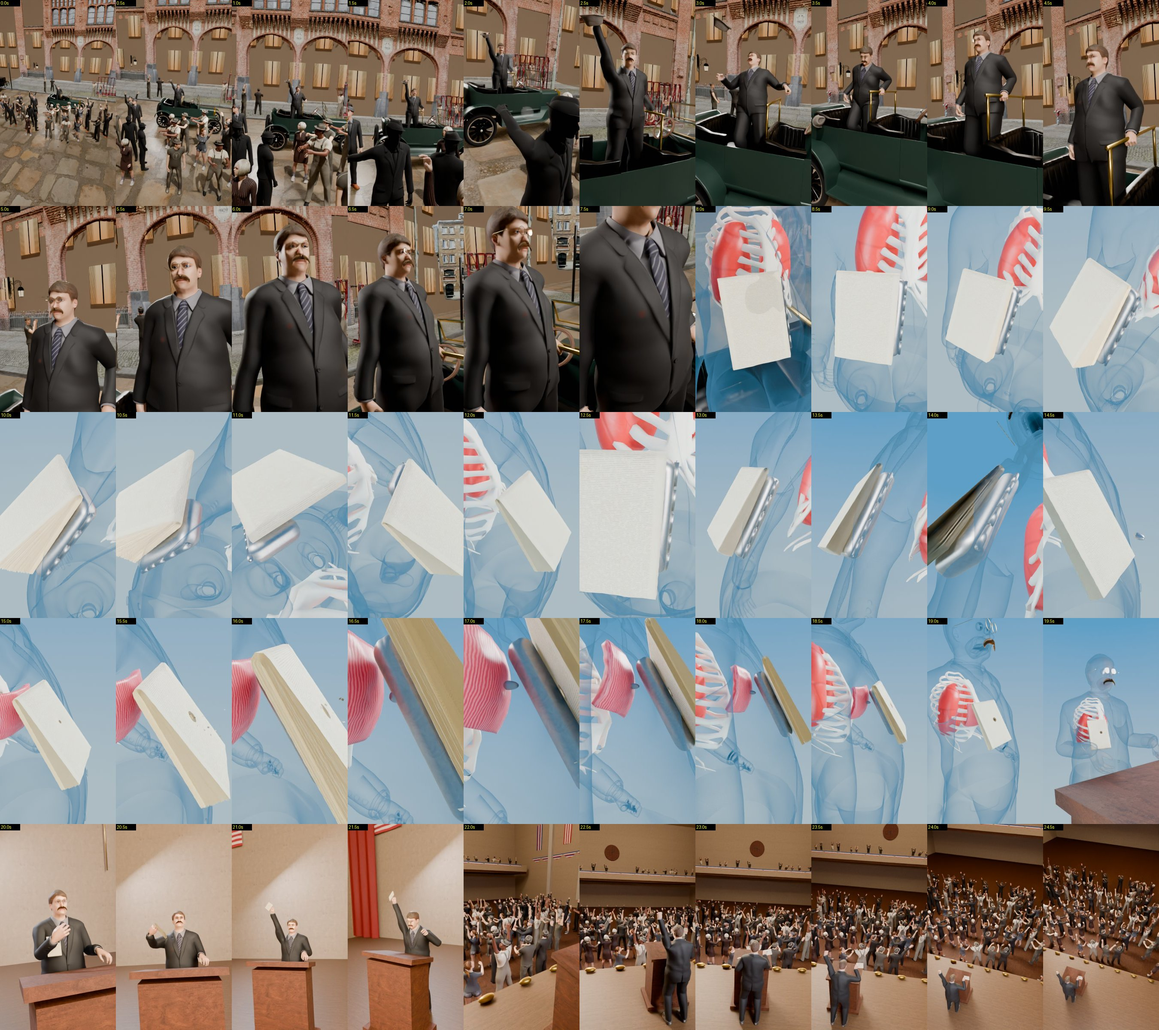
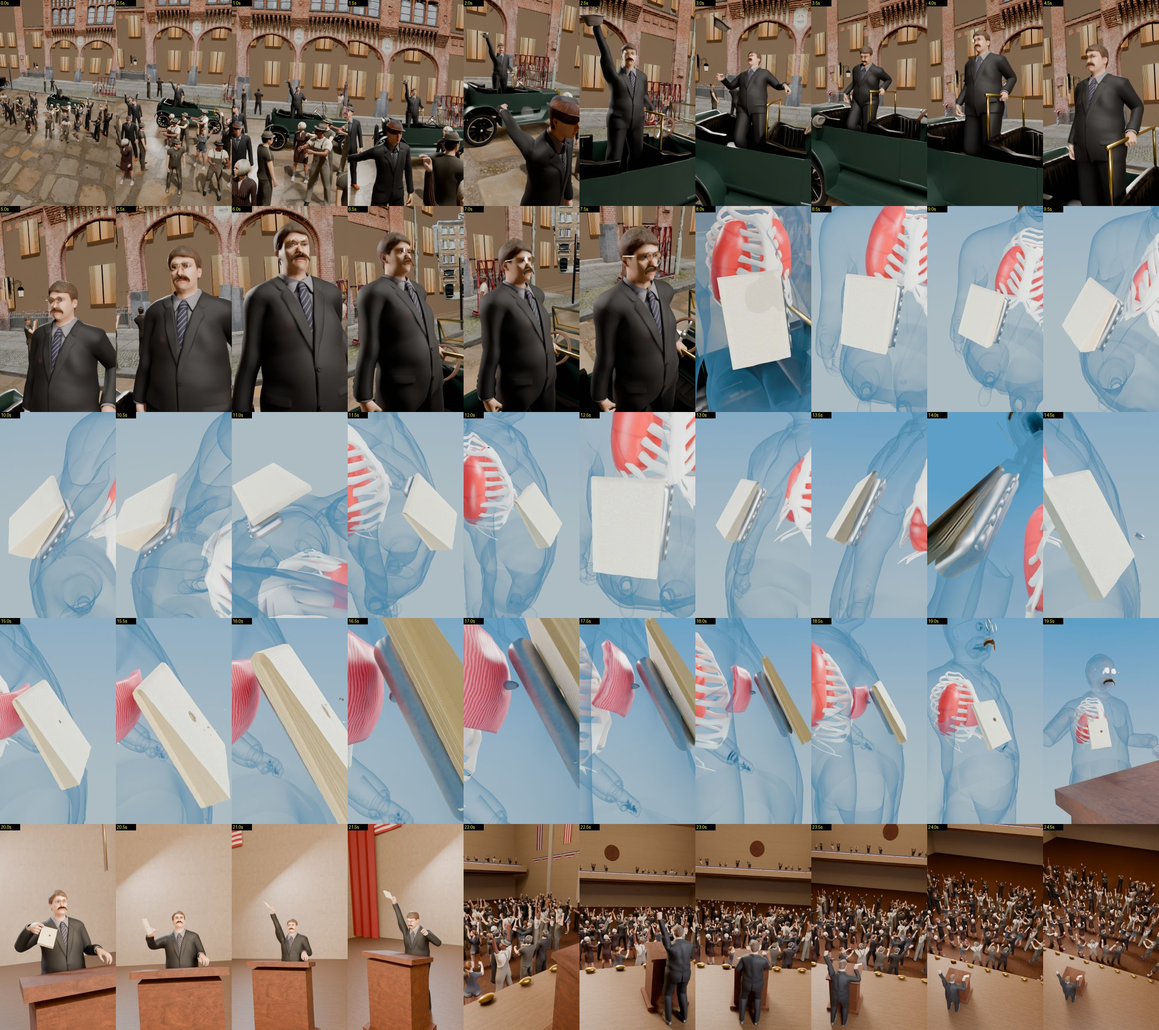
Connect24 RooseveltSpeech: v007 revision WIP (thumb-index pinch pull, lit shooter/policeman, framing fixes)
Claude-Session: https://claude.ai/code/session_01XfwPSmDU9rog858gx2mfei

diff --git a/blender/RooseveltSpeech_v001/scripts/03_animate.py b/blender/RooseveltSpeech_v001/scripts/03_animate.py
@@ -88,7 +88,6 @@ RAIL = Vector((0.26, -0.10, 1.025))            # brass grab rail on the front se
 POCKET_REACH = Vector((-0.06, -0.30, 1.24))
 hR_keys = [(1, wave_R(1)), (F_IMPACT, wave_R(F_IMPACT)), (F_IMPACT + 6, Vector((-0.42, -0.18, 1.5))), (195, Vector((-0.40, -0.12, 1.0))),
            (240, Vector((-0.33, -0.10, 0.92))), (300, Vector((-0.30, -0.08, 0.90))), (1150, Vector((-0.30, -0.08, 0.90))),
-           (1185, Vector((-0.22, -0.26, 1.14))), (1205, POCKET_REACH), (1216, POCKET_REACH + Vector((0.0, 0.0, 0.0))),
            (1238, Vector((-0.30, -0.42, 1.45))), (1262, Vector((-0.30, -0.30, 1.98))), (1285, Vector((-0.30, -0.30, 2.0))),
            (1310, Vector((-0.26, -0.45, 1.35))), (1360, Vector((-0.22, -0.44, 1.22))), (1420, Vector((-0.30, -0.42, 1.40))), (1500, Vector((-0.24, -0.44, 1.25)))]
 hL_keys = [(1, Vector((0.30, -0.12, 0.95))), (60, Vector((0.36, -0.30, 1.2))), (100, Vector((0.32, -0.20, 1.05))), (F_IMPACT, Vector((0.31, -0.14, 1.0))),
@@ -332,7 +331,7 @@ for ob in [o for o in H.children if o.type == "MESH"]:
 MS = bpy.data.objects["Manuscript"]; GC = bpy.data.objects["GlassesCase"]; BL = bpy.data.objects["Bullet"]
 SHEETS = sorted([o for o in MS.children if o.name.startswith("Sheet")], key=lambda o: o.name)
 # stack normal (local +z) points out of the chest; sheet 49 outermost
-MS.matrix_world = PW @ Matrix.Translation(Vector((-0.002, 0.010, -0.03))) @ Matrix.Rotation(R_(90), 4, "X")
+MS.matrix_world = PW @ Matrix.Translation(Vector((-0.002, -0.014, -0.035))) @ Matrix.Rotation(R_(90), 4, "X")
 c_sp = child_of(MS, H, "spine01", 400)
 GC.matrix_world = PW @ Matrix.Translation(Vector((0.035, 0.031, -0.03))) @ Matrix.Rotation(R_(90), 4, "Y") @ Matrix.Rotation(R_(90), 4, "X")
 child_of(GC, H, "spine01", 400)
@@ -345,42 +344,64 @@ for o in [MS] + list(MS.children): vis(o, ((1, True), (B[3] + 15, False)))
 # manuscript hand-off: pocket (spine01) -> right hand from the grasp at 1216
 c_hand = MS.constraints.new("CHILD_OF"); c_hand.target = H; c_hand.subtarget = "wrist.R"
 sc.frame_set(1216); c_hand.inverse_matrix = (H.matrix_world @ R.PB["wrist.R"].matrix).inverted() @ (H.matrix_world @ R.PB["spine01"].matrix) @ c_sp.inverse_matrix
-for f_, a_, b_ in ((1, 1.0, 0.0), (1215, 1.0, 0.0), (1216, 0.0, 1.0)):
+for f_, a_, b_ in ((1, 1.0, 0.0),):   # hand-off keys are set in the pinch block below
     c_sp.influence = a_; c_hand.influence = b_
     c_sp.keyframe_insert("influence", frame=f_); c_hand.keyframe_insert("influence", frame=f_)
-sc.frame_set(1180); _ms0 = MS.location.copy()
-for f_, u_ in ((1, 0.0), (1205, 0.0), (1216, 1.0), (END, 1.0)):   # the hand pulls it up: rises only while gripped
-    MS.location = _ms0 + (Pocket.matrix_world.to_3x3() @ Vector((0.0, -0.006, 0.065))) * u_; MS.keyframe_insert("location", frame=f_)
-# right hand reaches the manuscript's top edge in the pocket (1199-1216), re-keyed now that the pocket is known
-for f in range(1197, 1219, 2):
+# ---- manuscript pull (director v007 note): thumb + index pinch the top corner and draw it out while the coat is still
+#      x-ray ghost (1150-1184); the pinch holds through the lift. Timeline: reach 1151-1166, pinch, pull 1168-1184,
+#      hold at the chest, hand-off to the wrist at 1196, lift to the audience (1238-1262).
+T_PINCH, T_PULL0, T_PULL1, T_HAND = 1166, 1168, 1184, 1196
+sc.frame_set(1150); _ms0 = MS.location.copy()
+for f_, u_ in ((1, 0.0), (T_PINCH, 0.0), (T_PINCH + 4, 0.6), (T_PULL1, 1.0), (END, 1.0)):   # moves only while pinched; drawn out fast, then eases
+    MS.location = _ms0 + (Pocket.matrix_world.to_3x3() @ Vector((-0.03, -0.15, 0.03))) * u_; MS.keyframe_insert("location", frame=f_)
+_cands = (Vector((-0.043, 0.074, 0.0)), Vector((0.043, 0.074, 0.0)))
+sc.frame_set(1150)
+CORNER = min(_cands, key=lambda c: ((MS.matrix_world @ c) - hR(1150)).length)
+def pinch_mid():
+    return (H.matrix_world @ R.PB["finger1-3.R"].tail + H.matrix_world @ R.PB["finger2-3.R"].tail) / 2
+def pinch_pose(f):
+    for k in range(1, 6):
+        for j in range(1, 4):
+            n = f"finger{k}-{j}.R"
+            if n not in R.PB: continue
+            a = (15, 30, 21)[j - 1] if k == 1 else ((27, 45, 31)[j - 1] if k == 2 else (18, 26, 18)[j - 1])   # thumb-index tip gap ~1 cm
+            pb = R.PB[n]; pb.rotation_quaternion = Quaternion((1, 0, 0), R_(a)); pb.keyframe_insert("rotation_quaternion", frame=f, group=n)
+for f_ in (1150, 1160) + tuple(x for x in (1170, 1182, 1192, 1204, 1216, 1290, 1300, 1365, 1372, 1395, 1405, 1500)):
+    if f_ >= 1160: pinch_pose(f_)
+D_G, N_G = Vector((0.9, 0.1, -0.45)), Vector((0, 1, 0.1))   # fingers across and down the chest, palm toward the coat
+Wt = hR(1150)
+for f in range(1151, T_HAND + 1, 2):
     sc.frame_set(f)
-    top = MS.matrix_world @ Vector((0.0, 0.08, 0.014)) + Vector((0, -0.022, 0.006))
-    u = smooth((f - 1197) / 10.0)
-    Wt = hR(1196).lerp(top + Vector((0.0, -0.025, 0.075)), u) + Vector((-0.03, -0.12, 0.03)) * math.sin(math.pi * min(1.0, u))
-    if f > 1215: Wt = Wg_hold + Vector((0.0, -0.008, 0.004))
-    HU.key_hand("R", f, Wt, Vector((0.9, 0.25, -0.35)), Vector((0, 1, 0.2)), pole=Vector((-0.55, 0.45, 1.0)))
-    if 1205 <= f <= 1215:   # land the finger pads on the manuscript's top edge (2 correction passes)
-        for _ in range(2):
-            sc.frame_set(f); top = MS.matrix_world @ Vector((0.0, 0.08, 0.014)) + Vector((0, -0.022, 0.006))
-            fp = H.matrix_world @ R.PB["finger3-2.R"].head.lerp(R.PB["finger1-3.R"].head, 0.5)
-            Wt = Wt + (top - fp)
-            HU.key_hand("R", f, Wt, Vector((0.9, 0.25, -0.35)), Vector((0, 1, 0.2)), pole=Vector((-0.55, 0.45, 1.0)))
-        Wg_hold = Wt.copy()
+    corner = MS.matrix_world @ CORNER
+    u = smooth((f - 1151) / float(T_PINCH - 1151))
+    if f < T_PINCH:   # approach from outside the chest, arcing out
+        Wt = hR(1150).lerp(corner + Vector((0.02, -0.06, 0.09)), u) + Vector((-0.04, -0.10, 0.03)) * math.sin(math.pi * u)
+        DN = clamp_wrist("R", Wt, D_G, N_G, f)
+        HU.key_hand("R", f, Wt, *DN, pole=Vector((-0.55, 0.45, 1.0)))
+    else:             # fingertips on the corner: 3 correction passes per key
+        DN = clamp_wrist("R", Wt, D_G, N_G, f)
+        HU.key_hand("R", f, Wt, *DN, pole=Vector((-0.55, 0.45, 1.0)))
+        for _ in range(3):
+            sc.frame_set(f); corner = MS.matrix_world @ CORNER
+            Wt = Wt + (corner - pinch_mid())
+            HU.key_hand("R", f, Wt, *DN, pole=Vector((-0.55, 0.45, 1.0)))
 Wg = Wt.copy()
 def _two(a_, m_, b_, u):
     return (a_.lerp(m_, u * 2) if u < 0.5 else m_.lerp(b_, u * 2 - 1)).normalized()
-for f in range(1219, 1245, 2):   # ease out of the grasp into the lift, no orientation snap
-    u = smooth((f - 1217) / 26.0)
-    W_ = hR(f) + (Wg - hR(1217)) * (1 - u) + Vector((0.0, -0.075, 0.02)) * math.sin(math.pi * u)
-    d_ = _two(Vector((0.9, 0.25, -0.35)), Vector((0.5, -0.6, 0.6)), Vector((0.1, -0.2, 1)), u)
-    n_ = _two(Vector((0, 1, 0.2)), Vector((0.3, 0.5, 0.6)), Vector((-0.2, -1, 0)), u)
+for f in range(T_HAND + 1, 1247, 2):   # ease from the chest into the lift, the paper stays pinched (child of the wrist)
+    u = smooth((f - T_HAND) / 48.0)
+    W_ = hR(f) + (Wg - hR(T_HAND)) * (1 - u) + Vector((0.0, -0.06, 0.02)) * math.sin(math.pi * u)
+    d_ = _two(DN[0], Vector((0.5, -0.6, 0.6)), Vector((0.1, -0.2, 1)), u)
+    n_ = _two(DN[1], Vector((0.3, 0.5, 0.6)), Vector((-0.2, -1, 0)), u)
     HU.key_hand("R", f, W_, d_, n_, pole=Vector((-0.55, 0.45, 1.0)))
+for f_, a_, b_ in ((1, 1.0, 0.0), (T_HAND - 1, 1.0, 0.0), (T_HAND, 0.0, 1.0)):
+    c_sp.influence = a_; c_hand.influence = b_; c_sp.keyframe_insert("influence", frame=f_); c_hand.keyframe_insert("influence", frame=f_)
+for fc_owner in (c_sp, c_hand): pass
 c_hand.influence = 0.0; c_sp.influence = 1.0
-sc.frame_set(1215)
-_fist = sum((H.matrix_world @ R.PB[f"finger{k}-2.R"].head for k in (2, 3, 4, 5)), Vector()) / 4
-_top = MS.matrix_world @ Vector((0.0, 0.065, 0.014))
-c_hand.inverse_matrix = (H.matrix_world @ R.PB["wrist.R"].matrix).inverted() @ Matrix.Translation(_fist - _top) @ (H.matrix_world @ R.PB["spine01"].matrix) @ c_sp.inverse_matrix
-print("GRIP SNAP", round((_fist - _top).length, 3))
+sc.frame_set(T_HAND - 1)
+_pm = pinch_mid(); _cw = MS.matrix_world @ CORNER
+c_hand.inverse_matrix = (H.matrix_world @ R.PB["wrist.R"].matrix).inverted() @ Matrix.Translation(_pm - _cw) @ (H.matrix_world @ R.PB["spine01"].matrix) @ c_sp.inverse_matrix
+print("GRIP SNAP", round((_pm - _cw).length, 3))
 # paper hole: charred ring + clear hole through every sheet after the bullet passes (paper material, object coords of HoleEmpty)
 hole_e = bpy.data.objects.new("HoleEmpty", None); C_STUDIO.objects.link(hole_e); hole_e.parent = MS
 HP_LOCAL = Vector((0.012, 0.01, 0.0))

diff --git a/blender/RooseveltSpeech_v001/scripts/03b_crowd_camera.py b/blender/RooseveltSpeech_v001/scripts/03b_crowd_camera.py
@@ -103,7 +103,7 @@ for i, p in enumerate(SPOTS):
     for o in [a] + list(a.children):
         o.hide_render = False; o.keyframe_insert("hide_render", frame=1); o.hide_render = True; o.keyframe_insert("hide_render", frame=F_OUT)
 # the shooter: a black silhouette, arm raised toward the car; no weapon detail (a dark blob in the hand)
-sh = instance("CrowdB", "Shooter", SHOOTER_POS, math.atan2(-(0 - SHOOTER_POS.x), -(0 - SHOOTER_POS.y)) + R_(180), CR, black=True)
+sh = instance("CrowdB", "Shooter", SHOOTER_POS, math.atan2(-(0 - SHOOTER_POS.x), -(0 - SHOOTER_POS.y)) + R_(180), CR, black=False)   # dark overcoat and hat, lit like everyone else (no flat black blob)
 fks = FK(sh)
 aim = (HIT - (SHOOTER_POS + Vector((-0.2, 0, 1.4)))).normalized()
 aim_l = sh.matrix_world.to_3x3().inverted() @ aim
@@ -126,7 +126,7 @@ for o in [sh, blob] + list(sh.children):
     o.hide_render = False; o.keyframe_insert("hide_render", frame=1); o.hide_render = True; o.keyframe_insert("hide_render", frame=F_OUT)
 # policeman silhouette restraining the shooter (background), arms on the shooter from just after the shot
 cop_pos = SHOOTER_POS + Vector((0.6, -0.35, 0))
-cop = instance("CrowdD", "Policeman", cop_pos, math.atan2(-(SHOOTER_POS.x - cop_pos.x), -(SHOOTER_POS.y - cop_pos.y)), CR, black=True)
+cop = instance("CrowdD", "Policeman", cop_pos, math.atan2(-(SHOOTER_POS.x - cop_pos.x), -(SHOOTER_POS.y - cop_pos.y)), CR, black=False)
 fkc = FK(cop); to_sh = cop.matrix_world.to_3x3().inverted() @ (SHOOTER_POS + Vector((0, 0, 1.35)) - (cop_pos + Vector((0, 0, 1.35)))).normalized()
 for f in range(1, F_OUT, 4):
     t = wt(f); u = smooth((t - F_IMPACT - 8) / 18.0)
@@ -208,13 +208,13 @@ K = [  # frame, position, target, lens
  (300,  Vector((0.55, -1.15, 1.6)),  Vector((0.0, -0.12, 1.55)), 35),   # face, straightening
  (B[2], Vector((0.15, -1.05, 1.45)), Vector((-0.05, -0.15, 1.38)), 35),
  (395,  Vector((-0.85, -0.85, 1.4)), P((0, 0, 0.02)), 35),              # orbit to the coat breast
- (B[3], P((-0.204, -0.544, 0.051)), P((0, 0, 0)), 35),
+ (B[3], P((-0.32, -0.78, 0.13)), P((0, 0, 0.12)), 30),   # pocket and his eyes both in frame
  (480, P((-0.06, -0.30, 0.03)), P((0, 0.03, -0.01)), 30),              # through the cloth
- (540, P((0.15, -0.27, 0.09)), P((0, 0.03, -0.02)), 28),
- (600, P((0.204, -0.092, 0.13)), P((0, 0.03, -0.02)), 30),
- (660, P((0.041, -0.038, 0.208)), P((0, 0.03, -0.01)), 30),          # over the fold edge
- (B[4], P((-0.234, -0.185, 0.123)), P((0.01, 0.04, -0.02)), 30),
- (780, P((0.335, -0.126, -0.001)), P((0.035, 0.031, -0.03)), 32),     # lateral to the steel case
+ (540, P((0.21, -0.4, 0.145)), P((-0.015, 0.05, -0.02)), 28),
+ (600, P((0.291, -0.133, 0.205)), P((-0.015, 0.05, -0.02)), 30),
+ (660, P((0.046, -0.052, 0.317)), P((-0.015, 0.05, -0.01)), 30),          # over the fold edge
+ (B[4], P((-0.371, -0.278, 0.194)), P((-0.005, 0.06, -0.02)), 30),
+ (780, P((0.47, -0.184, 0.013)), P((0.02, 0.051, -0.03)), 32),     # lateral to the steel case
  (840, P((0.169, -0.001, -0.194)), P((0.035, 0.031, -0.03)), 32),     # low over the hinge
  (B[5], P((-0.27, -0.189, 0.031)), P((0.01, -0.01, -0.02)), 35),      # alongside the bullet
  (940, P((-0.212, -0.059, 0.075)), P((0.015, 0.025, -0.02)), 35),

diff --git a/blender/RooseveltSpeech_v001/scripts/closeups.py b/blender/RooseveltSpeech_v001/scripts/closeups.py
@@ -6,13 +6,17 @@ sc = bpy.context.scene; H = bpy.data.objects["Hero"]; cam = sc.camera
 cam.animation_data_clear(); cam.data.animation_data_clear(); cam.rotation_mode = "QUATERNION"; cam.data.lens = 45
 sc.render.resolution_x, sc.render.resolution_y = 270, 480; sc.cycles.samples = 8; sc.render.use_motion_blur = False
 sc.render.image_settings.file_format = "JPEG"
-SHOTS = [("pocket_1205", 1205, "wrist.R", (-0.3, -0.5, 0.05)), ("pocket_1223", 1223, "wrist.R", (-0.25, -0.5, 0.0)), ("flail_178", 178, "wrist.L", (0.4, -0.6, 0.1)), ("impact_R_180", 180, "wrist.R", (-0.4, -0.6, 0.1)), ("hat_grip", 60, "wrist.R", (0.25, -0.5, 0.1)), ("rail_grip_L", 260, "wrist.L", (0.35, -0.45, 0.15)), ("rail_grip_L_frozen", 900, "wrist.L", (0.1, -0.5, 0.3)),
-         ("feet_car", 120, "foot.L", (0.5, -0.8, 0.45)), ("feet_step", 230, "foot.R", (-0.4, -0.8, 0.4)), ("specs_moustache", 300, "head", (0.2, -0.45, 0.05)),
+SHOTS = [("pinch_1166", 1166, "finger2-3.R", (-0.15, -0.3, 0.05)), ("pinch_pull_1176", 1176, "finger2-3.R", (-0.15, -0.3, 0.05)), ("pinch_hold_1196", 1196, "finger2-3.R", (-0.18, -0.32, 0.06)), ("pinch_lift_1230", 1230, "finger2-3.R", (-0.2, -0.35, 0.02)), ("pocket_1205", 1205, "wrist.R", (-0.3, -0.5, 0.05)), ("pocket_1223", 1223, "wrist.R", (-0.25, -0.5, 0.0)), ("flail_178", 178, "wrist.L", (0.4, -0.6, 0.1)), ("impact_R_180", 180, "wrist.R", (-0.4, -0.6, 0.1)), ("hat_grip", 60, "wrist.R", (0.25, -0.5, 0.1)), ("rail_grip_L", 260, "wrist.L", (0.35, -0.45, 0.15)), ("rail_grip_L_frozen", 900, "wrist.L", (0.1, -0.5, 0.3)),
+         ("feet_car", 120, "foot.L", (-0.15, -0.6, 0.85)), ("feet_step", 230, "foot.R", (-0.2, -0.6, 0.85)), ("feet_step_mid", 211, "foot.R", (-0.2, -0.6, 0.85)), ("specs_moustache", 300, "head", (0.2, -0.45, 0.05)),
          ("specs_side", 1300, "head", (0.45, -0.1, 0.05)), ("pocket_grasp", 1212, "wrist.R", (-0.3, -0.5, 0.05)), ("manuscript_lift", 1262, "wrist.R", (-0.3, -0.55, 0.0)),
          ("podium_hand_L", 1250, "wrist.L", (0.35, -0.5, 0.15)), ("fist_L", 1320, "wrist.L", (0.4, -0.5, 0.05)), ("podium_slam_L", 1380, "wrist.L", (0.3, -0.5, 0.2)),
          ("feet_stage", 1330, "foot.L", (0.5, -0.8, 0.4)), ("elbow_armpit", 1320, "lowerarm01.L", (0.6, -0.6, 0.1))]
+fill = bpy.data.lights.new("ReviewFill", "AREA"); fill.energy = 0.0; fill.size = 0.4
+fo = bpy.data.objects.new("ReviewFill", fill); sc.collection.objects.link(fo)   # review-only light, not in the package
 for name, f, bone, off in SHOTS:
     sc.frame_set(f); p = H.matrix_world @ H.pose.bones[bone].head
     cam.location = p + Vector(off); cam.rotation_quaternion = (p - cam.location).to_track_quat("-Z", "Y")
+    if name.startswith("pinch"): cam.location = p + Vector(off) * 0.6; cam.rotation_quaternion = (p - cam.location).to_track_quat("-Z", "Y")
+    fill.energy = 40.0 if name.startswith("feet") else 0.0; fo.location = cam.location; fo.rotation_euler = cam.rotation_quaternion.to_euler()
     sc.render.filepath = os.path.join(OUT, f"{name}_f{f}.jpg"); bpy.ops.render.render(write_still=True)
 print("CLOSEUPS", len(SHOTS))

diff --git a/blender/RooseveltSpeech_v001/scripts/07_hand_audit.py b/blender/RooseveltSpeech_v001/scripts/07_hand_audit.py
@@ -46,9 +46,10 @@ rep = {"hits": [], "joint": [], "frames": 0}
 for f in range(sc.frame_start, sc.frame_end + 1, STEP):
     sc.frame_set(f); rep["frames"] += 1
     tb = tree(body, torso_f); ts = tree(suit)
+    ghost = 460 <= f <= 1192   # x-ray: body and coat are rendered as a see-through ghost (the hand enters the ghost pocket)
     for s in "LR":
         hp = hand_pts(s)
-        nb, ns = inside(tb, hp), inside(ts, hp)
+        nb, ns = (0, 0) if ghost else (inside(tb, hp), inside(ts, hp))
         if nb: rep["hits"].append((f, "hand." + s, "own torso/head", nb))
         if ns: rep["hits"].append((f, "hand." + s, "own clothes", ns))
     dmin = min((p - q).length for p in hand_pts("L") for q in hand_pts("R"))
